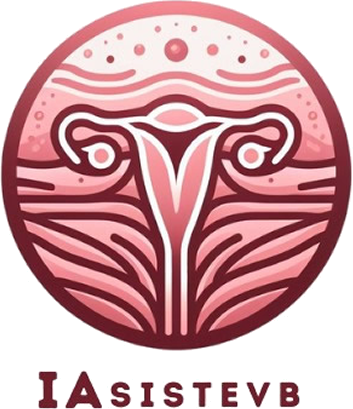
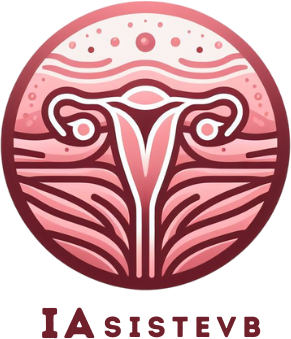
Ajustes para el ícono y nombre de la app

diff --git a/lib/models/exudate.dart b/lib/models/exudate.dart
@@ -16,34 +16,33 @@ class Exudate {
   List<DetailsData> details = [];
 
   void get determiningValues {
-    /* if (mycoplasmaHominis != 'dont_know' &&
-        candidaAlbicans != 'dont_know' &&
-        ureaplasmaUrealyticum != 'dont_know') { */
-    if (mycoplasmaHominis == 'Verdadero') {
-      if (candidaAlbicans == 'Verdadero') {
-        result = 'Indeterminado';
-        probability = ((2 - 1) / 2 * 100).toInt();
+    if (mycoplasmaHominis != 'Inseguro' &&
+        candidaAlbicans != 'Inseguro' &&
+        ureaplasmaUrealyticum != 'Inseguro') {
+      if (mycoplasmaHominis == 'Verdadero') {
+        if (candidaAlbicans == 'Verdadero') {
+          result = 'Indeterminado';
+          probability = ((2 - 1) / 2 * 100).toInt();
+        } else {
+          result = 'VB-Positivo';
+          probability = ((17 - 9) / 17 * 100).toInt();
+        }
       } else {
-        result = 'VB-Positivo';
-        probability = ((17 - 9) / 17 * 100).toInt();
+        if (ureaplasmaUrealyticum == 'Verdadero') {
+          result = 'Indeterminado';
+          probability = 100;
+        } else {
+          result = 'Normal';
+          probability = ((82 - 21) / 82 * 100).toInt();
+        }
       }
-    } else {
-      if (ureaplasmaUrealyticum == 'Verdadero') {
-        result = 'Indeterminado';
-        probability = 100;
-      } else {
-        result = 'Normal';
-        probability = ((82 - 21) / 82 * 100).toInt();
-      }
+      details.add(DetailsData(
+          indicator: 'Mycoplasma hominis (Mh)', value: mycoplasmaHominis));
+      details.add(DetailsData(
+          indicator: 'Candida albicans (Ca)', value: candidaAlbicans));
+      details.add(DetailsData(
+          indicator: 'Ureaplasma urealyticum (Uu)',
+          value: ureaplasmaUrealyticum));
     }
-    details.add(DetailsData(
-        indicator: 'Mycoplasma hominis (Mh)', value: mycoplasmaHominis));
-    details.add(DetailsData(
-        indicator: 'Candida albicans (Ca)', value: candidaAlbicans));
-    details.add(DetailsData(
-        indicator: 'Ureaplasma urealyticum (Uu)',
-        value: ureaplasmaUrealyticum));
   }
-
-  /* } */
 }

diff --git a/lib/main.dart b/lib/main.dart
@@ -4,7 +4,7 @@ import 'package:app/screens/dynamic_screens/main_menu.dart';
 import 'package:google_fonts/google_fonts.dart';
 
 final theme = ThemeData(
-  primarySwatch: Colors.pink,
+  scaffoldBackgroundColor: Colors.white,
   appBarTheme: AppBarTheme(
     backgroundColor: const Color.fromARGB(255, 247, 140, 154),
     titleTextStyle: GoogleFonts.inter(
@@ -101,7 +101,6 @@ void main() {
     runApp(
       MaterialApp(
         theme: theme,
-        //home: const MainMenu(),
         home: const MainMenu(),
       ),
     );

diff --git a/lib/models/symptoms.dart b/lib/models/symptoms.dart
@@ -19,7 +19,7 @@ class Symptoms {
     /* if (stink != 'dont_know' &&
         dyspareunia != 'dont_know' &&
         ardour != 'dont_know') { */
-    if (stink == 'Veradero') {
+    if (stink == 'Verdadero') {
       if (dyspareunia == 'Verdadero') {
         result = 'Indeterminado';
         probability = ((3.09 - 0.09) / 3.09 * 100).toInt();

diff --git a/lib/widgets/custom_appbar.dart b/lib/widgets/custom_appbar.dart
@@ -23,7 +23,7 @@ class CustomAppbar {
           );
         },
         icon: Image.asset(
-          'assets/images/IAsisteVB.png',
+          'assets/images/IAsisteVB_logo.png',
         ),
       ),
     );
